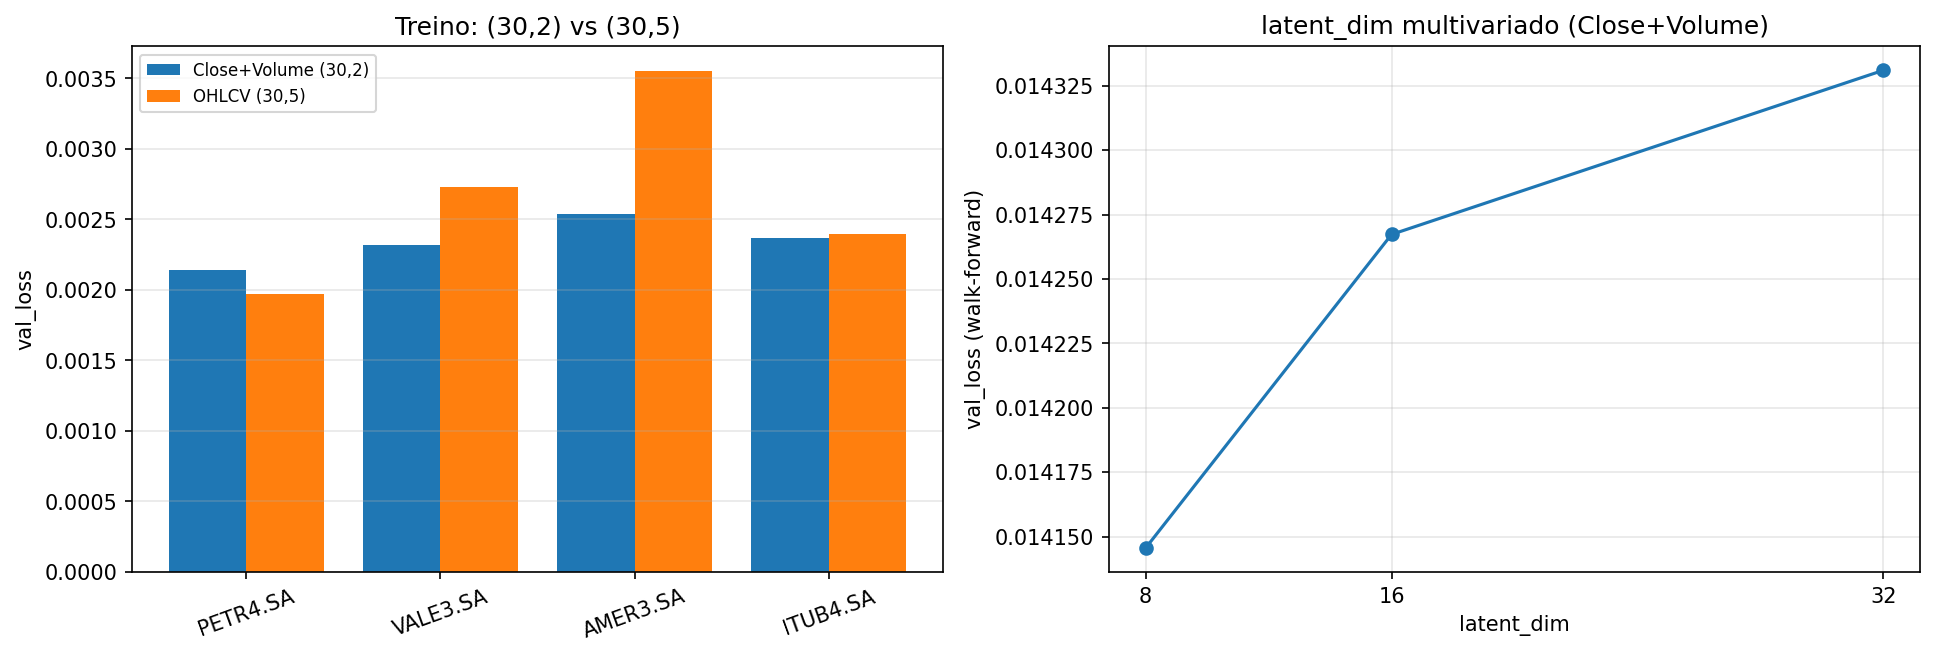
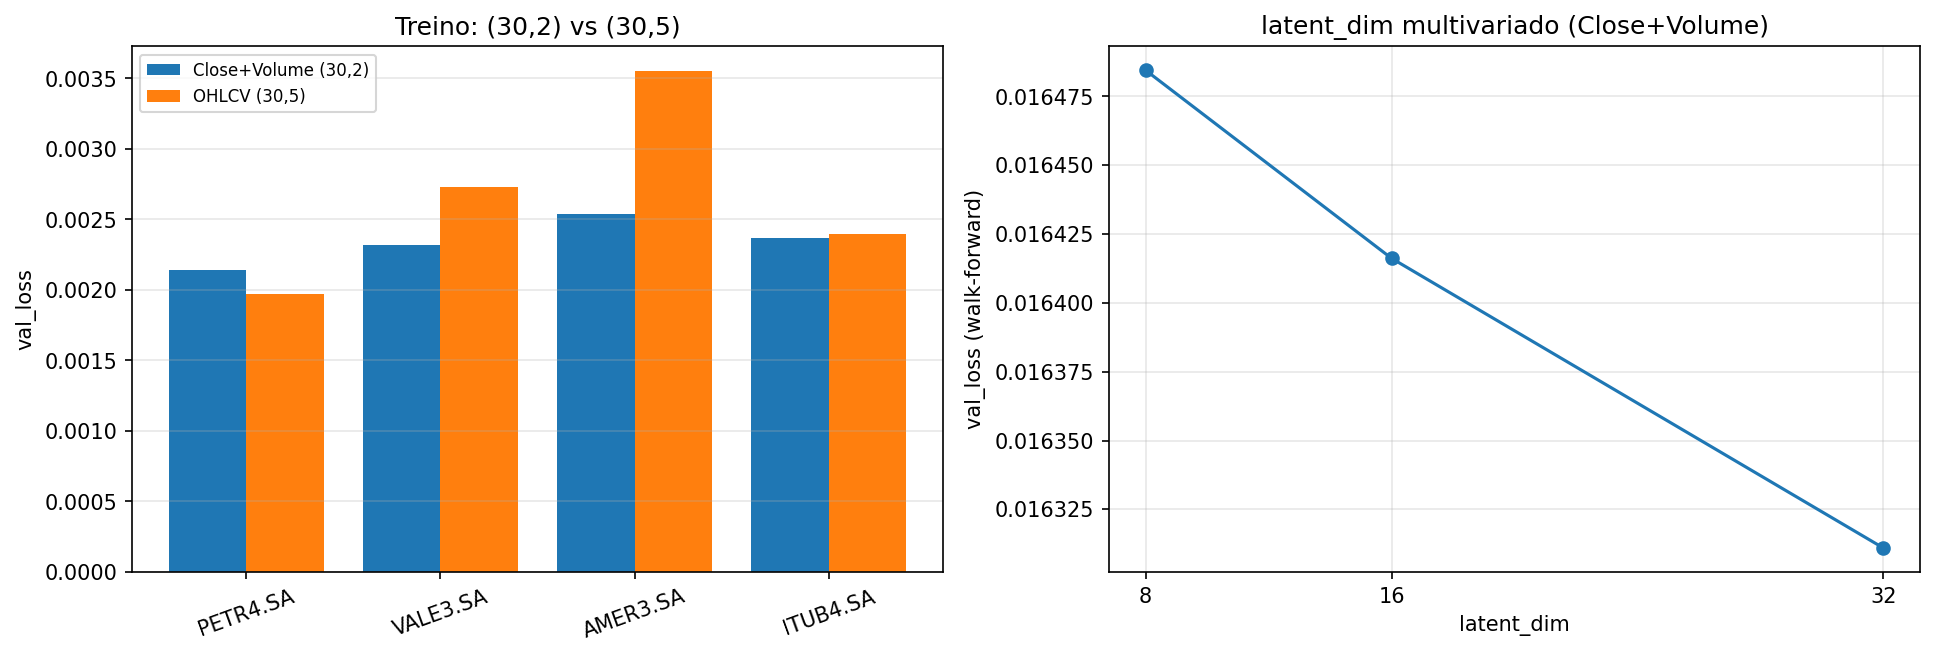
feat: validation.n_splits 5 -> 10 (Kohavi 1995) + re-roda walk-forward
Professor citou Kohavi (1995): 10-fold como melhor compromisso vies/variancia.
Adotado como default, com ressalva metodologica honesta (ADR-0010): Kohavi trata
k-fold ESTRATIFICADO i.i.d. (classificacao); aqui e walk-forward em serie temporal.
Avaliei se algum k!=10 teria fundamentacao mais forte para este cenario -> NAO:
Bergmeir & Benitez (2012) validam o esquema forward-CV mas nao elegem k; Bengio &
Grandvalet (2004) mostram que nem ha estimador nao-viesado da variancia do k-fold.
Sem resultado que supere 10, mantem-se 10 por convencao.

Re-executados sob k=10 (saidas versionadas):
- nb08 (univariado): latent_dim=16 confirmado (0.01540); insensivel em [8,32].
  Desvio entre ativos caiu (0.0029 vs 0.0044 com 5 folds) = reducao de variancia.
- nb11 (multivariado): latent_dim insensivel; o argmin MUDOU de 8 (k=5) para 32
  (k=10), justamente porque tudo esta dentro do ruido (range ~0.0002) -> reforca a
  insensibilidade. Mantem 16. Decisao OHLCV (rejeitado) inalterada.

Propaga: config, ADR-0010 (Kohavi+caveat+tabela k=10), ADR-0011 (tabela k=10),
docs/adr/README (3 refs de CV), report secoes M8/M9, teoria, README (tabela+refs).
3 PDFs recompilados. 16 testes verdes.

diff --git a/report/sections/13_m8_fase2_plano.tex b/report/sections/13_m8_fase2_plano.tex
@@ -66,12 +66,13 @@ partição, sem cruzar a fronteira treino/validação (ADR-0001). Esta mudança 
 em produção --- é instrumento de rigor e credibilidade na escolha do modelo final.
 
 \par\noindent\textbf{Resultado (notebook \texttt{08\_walkforward}).} Avaliando
-$\texttt{latent\_dim} \in \{8, 16, 32\}$ com $5$ folds nos quatro ativos, o \texttt{val\_loss}
-médio entre ativos foi $0{,}01554$ ($8$), $\mathbf{0{,}01541}$ ($16$) e $0{,}01546$ ($32$). O
-valor \textbf{16 é confirmado} (menor média), validando por experimento a escolha de projeto do
-ADR-0003. Mais relevante, as três dimensões \textbf{empatam} --- as diferenças (4ª casa decimal)
-são muito menores que o desvio entre folds ($\approx 0{,}004$): no intervalo testado o tamanho do
-gargalo \emph{não} é hiperparâmetro sensível, evidência positiva de robustez da reconstrução.
+$\texttt{latent\_dim} \in \{8, 16, 32\}$ com $\texttt{n\_splits}=10$ (Kohavi, 1995) nos quatro
+ativos, o \texttt{val\_loss} médio entre ativos foi $0{,}01543$ ($8$), $\mathbf{0{,}01540}$ ($16$)
+e $0{,}01545$ ($32$). O valor \textbf{16 é confirmado} (menor média), validando por experimento a
+escolha de projeto do ADR-0003. Mais relevante, as três dimensões \textbf{empatam} --- as
+diferenças (4ª casa decimal) são muito menores que o desvio entre folds: no intervalo testado o
+tamanho do gargalo \emph{não} é hiperparâmetro sensível, evidência positiva de robustez da
+reconstrução.
 
 \subsection{Entrada multivariada OHLCV (ADR-0011)}
 \label{sec:m8-multivariado}

diff --git a/report/sections/14_m9_consolidacao.tex b/report/sections/14_m9_consolidacao.tex
@@ -46,8 +46,11 @@ ITUB4.SA & 0,00237 & 0,00240 \\
 \subsection{\texttt{latent\_dim} do modelo multivariado (ADR-0010/0011)}
 \label{sec:m9-latent}
 A malha walk-forward, generalizada para entrada por coluna
-(\texttt{walk\_forward\_splits\_multivariate}), avaliou o gargalo do modelo Close+Volume:
-\texttt{val\_loss} médio $0{,}01415$ ($8$), $0{,}01427$ ($16$), $0{,}01433$ ($32$) --- de novo
-\textbf{insensível}, com leve vantagem para $8$. Mantém-se $16$ por consistência com o
-univariado; a diferença é desprezível. A insensibilidade do gargalo, agora observada em ambas as
-representações, é evidência consistente de robustez da reconstrução.
+(\texttt{walk\_forward\_splits\_multivariate}) e com $\texttt{n\_splits}=10$ (Kohavi, 1995),
+avaliou o gargalo do modelo Close+Volume: \texttt{val\_loss} médio $0{,}016485$ ($8$),
+$0{,}016416$ ($16$), $0{,}016311$ ($32$) --- de novo \textbf{insensível} (amplitude
+$\approx 0{,}0002$). Um detalhe revela o ponto: o ``melhor'' \texttt{latent\_dim} \emph{mudou} de
+$8$ (sob $5$ folds) para $32$ (sob $10$ folds) --- precisamente porque os três estão dentro do
+ruído, o argmin é instável e não carrega significado. Mantém-se $16$ por consistência com o
+univariado. A insensibilidade do gargalo, observada em ambas as representações e em dois desenhos
+de validação, é evidência robusta.

diff --git a/teoria/sections/12_fase2.tex b/teoria/sections/12_fase2.tex
@@ -67,10 +67,11 @@ sempre o bloco seguinte. Nunca o futuro entra no treino.
 A regra de ouro do projeto (normalizar só com o treino, ADR-0001) vale \textbf{dentro de cada
 fold}: o \texttt{MinMaxScaler} é reajustado a cada corte, usando apenas o treino daquele fold, e
 as janelas são geradas dentro de cada partição. Custa $K$ vezes mais treino, mas dá média
-$\pm$~desvio do erro por candidato. Rodado (notebook \texttt{08}) para \texttt{latent\_dim} $\in
-\{8,16,32\}$, os três praticamente empataram (\texttt{val\_loss} $\approx 0{,}0154$): o gargalo
-\textbf{16 foi confirmado} e, de quebra, o modelo mostrou-se \emph{insensível} ao tamanho do
-gargalo nessa faixa --- um sinal de robustez. Decisão em ADR-0010.
+$\pm$~desvio do erro por candidato. Rodado (notebook \texttt{08}, com $10$ folds --- a convenção
+de Kohavi, 1995) para \texttt{latent\_dim} $\in \{8,16,32\}$, os três praticamente empataram
+(\texttt{val\_loss} $\approx 0{,}0154$): o gargalo \textbf{16 foi confirmado} e, de quebra, o
+modelo mostrou-se \emph{insensível} ao tamanho do gargalo nessa faixa --- um sinal de robustez.
+Decisão em ADR-0010.
 \end{naprat}
 
 \subsection{Mais de uma variável: entrada multivariada (OHLCV)}

diff --git a/docs/adr/0010-validacao-walk-forward.md b/docs/adr/0010-validacao-walk-forward.md
@@ -32,6 +32,19 @@ produção; o modelo final é retreinado com o melhor hiperparâmetro sobre o tr
   ([ADR-0001](0001-split-temporal-antes-do-scaler.md), `shuffle=False`).
 - **Variância reduzida:** múltiplos folds dão média ± desvio do `val_loss` por candidato,
   base honesta para comparar `latent_dim` (ex.: 8/16/32).
+- **`n_splits = 10` (FUNDAMENTADO, com ressalva):** Kohavi (1995) recomenda **10-fold** como o
+  melhor compromisso viés/variância para estimação de acurácia e seleção de modelo, valor
+  adotado como convenção. **Ressalva metodológica:** o estudo de Kohavi trata *k-fold
+  estratificado sobre dados i.i.d.* (classificação); aqui usa-se *walk-forward sobre série
+  temporal* (sem embaralhar, folds expansíveis), então o "10 ótimo" não transfere literalmente.
+  Avaliou-se explicitamente se algum `k` diferente teria fundamentação **mais forte** para este
+  cenário e a conclusão foi que **não**: a literatura de CV em séries temporais
+  (Bergmeir & Benítez, 2012) valida o *esquema* forward-CV por preservar a causalidade, mas
+  **não elege um `k` ótimo**; argumentos por `k` menor (custo) ou atado ao tamanho do fold
+  (treino mínimo) são heurísticos, não teóricos; e Bengio & Grandvalet (2004) mostram que nem
+  existe estimador não-viesado da variância do `k`-fold. Sem um resultado que supere 10, mantém-se
+  **10 por convenção** (default consolidado), com esta ressalva registrada. O custo é gerenciável
+  (folds menores treinam rápido; ver Consequências).
 
 ## Consequências
 
@@ -69,6 +82,22 @@ produção; o modelo final é retreinado com o melhor hiperparâmetro sobre o tr
 > - O valor de `config.yaml` (`latent_dim=16`) permanece, agora **fundamentado por experimento**
 >   em vez de só por design. A malha walk-forward fica disponível para validar futuros
 >   hiperparâmetros e o modelo multivariado ([ADR-0011](0011-tensor-multivariado-ohlcv.md)).
+
+> **Atualização (2026-06-23) — `n_splits` 5 → 10 (Kohavi 1995).**
+> Adotou-se `n_splits=10` por convenção (Kohavi, 1995), com a ressalva i.i.d. registrada na
+> Justificativa. Reexecutado o `08_walkforward` com 10 folds (`val_loss` médio entre os 4 ativos):
+>
+> | `latent_dim` | val\_loss médio (4 ativos) | desvio entre ativos |
+> | --- | --- | --- |
+> | 8  | 0,015426 | 0,002902 |
+> | **16** | **0,015399** | 0,002888 |
+> | 32 | 0,015450 | 0,002976 |
+>
+> - **Mesma conclusão:** `latent_dim=16` segue o melhor (e o gargalo segue **insensível** em
+>   [8, 32]). A mudança de `k` **não** alterou o veredito --- robustez confirmada por um segundo
+>   desenho de validação.
+> - O desvio entre ativos caiu (≈0,0029 vs 0,0044 com 5 folds): mais folds → média um pouco mais
+>   estável, exatamente o efeito de redução de variância que motiva o 10-fold.
 
 ## Alternativas consideradas
 

diff --git a/docs/adr/0011-tensor-multivariado-ohlcv.md b/docs/adr/0011-tensor-multivariado-ohlcv.md
@@ -96,9 +96,12 @@ O caminho univariado permanece o default.
 >   Ainda assim, a informação extra não ajudou a detecção — o argumento de parcimônia se sustenta
 >   pelo resultado, não pela colinearidade.
 > - **`latent_dim` multivariado (#60):** walk-forward (`walk_forward_splits_multivariate`) sobre
->   Close+Volume deu `val_loss` médio $0{,}01415$ (8), $0{,}01427$ (16), $0{,}01433$ (32) — de
->   novo **insensível**, com leve vantagem para 8. Mantém-se `latent_dim=16` por consistência com
->   o univariado ([ADR-0003](0003-arquitetura-autoencoder.md)); a diferença é desprezível.
+>   Close+Volume, com `n_splits=10` ([ADR-0010](0010-validacao-walk-forward.md)), deu `val_loss`
+>   médio $0{,}016485$ (8), $0{,}016416$ (16), $0{,}016311$ (32) — de novo **insensível** (range
+>   $\approx 0{,}0002$). Curiosidade reveladora: o "melhor" `latent_dim` **mudou** de 8 (sob 5
+>   folds) para 32 (sob 10 folds) — justamente porque os três estão dentro do ruído, o argmin é
+>   instável e não significa nada. Mantém-se `latent_dim=16` por consistência com o univariado
+>   ([ADR-0003](0003-arquitetura-autoencoder.md)); a diferença é desprezível.
 > - **`config.yaml`** segue `features: [Close, Volume]`. O univariado permanece o default em
 >   produção; o multivariado é a via para anomalias de volume quando requisitado.
 

diff --git a/docs/adr/README.md b/docs/adr/README.md
@@ -26,6 +26,12 @@ Valores `PROVISÓRIO` aparecem marcados também no `config.yaml`.
 - **Petrovic, D.** *Anomaly Detection in Stock Price with LSTM Autoencoder.* GitHub.
 - **Liu et al. (2025).** *Robust Anomaly Detection in Financial Markets Using LSTM Autoencoders and GANs.* OPAST.
 - **(2021).** *Anomaly Detection on Bitcoin Values.* IEEE.
+- **Kohavi, R. (1995).** *A Study of Cross-Validation and Bootstrap for Accuracy Estimation and Model
+  Selection.* IJCAI. — recomenda **10-fold** como melhor compromisso viés/variância (ver ADR-0010).
+- **Bergmeir, C. & Benítez, J. M. (2012).** *On the use of cross-validation for time series predictor
+  evaluation.* Information Sciences. — valida forward-CV em séries temporais (não elege um `k`).
+- **Bengio, Y. & Grandvalet, Y. (2004).** *No Unbiased Estimator of the Variance of K-Fold
+  Cross-Validation.* JMLR.
 
 ## Índice
 

diff --git a/README.md b/README.md
@@ -283,7 +283,7 @@ seu ADR):
 | `detection.threshold_percentile` | 95 | 0005 |
 | `detection.dynamic_window` | 252 | 0005 |
 | `detection.aggregation` | **max** | 0009 |
-| `validation.n_splits` | 5 | 0010 |
+| `validation.n_splits` | 10 | 0010 |
 | `preprocessing.features` | `[Close, Volume]` | 0011 |
 
 ---
@@ -301,6 +301,7 @@ seu ADR):
 - Petrovic, D. *Anomaly Detection in Stock Price with LSTM Autoencoder.* (GitHub)
 - *Anomaly Detection on Bitcoin Values.* IEEE (2021).
 - Liu et al. (2025). *Robust Anomaly Detection in Financial Markets Using LSTM Autoencoders and GANs.*
+- Kohavi, R. (1995). *A Study of Cross-Validation and Bootstrap for Accuracy Estimation and Model Selection.* IJCAI. — base para `validation.n_splits = 10`.
 
 Repositórios públicos foram usados apenas como guia arquitetural. Toda a implementação, os dados e
 as análises são originais.